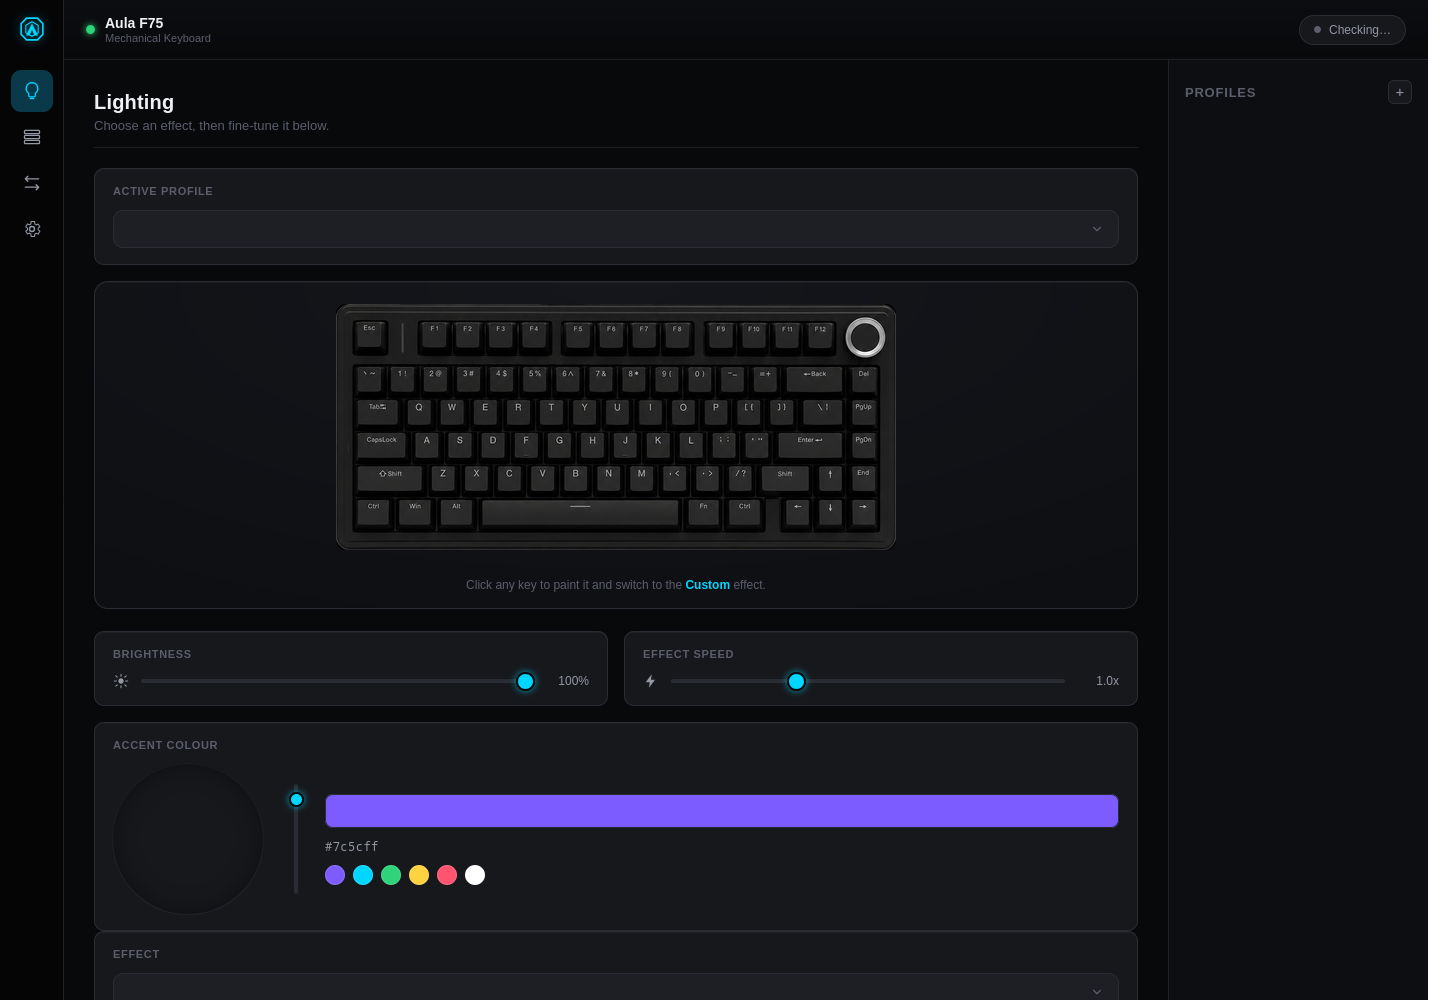
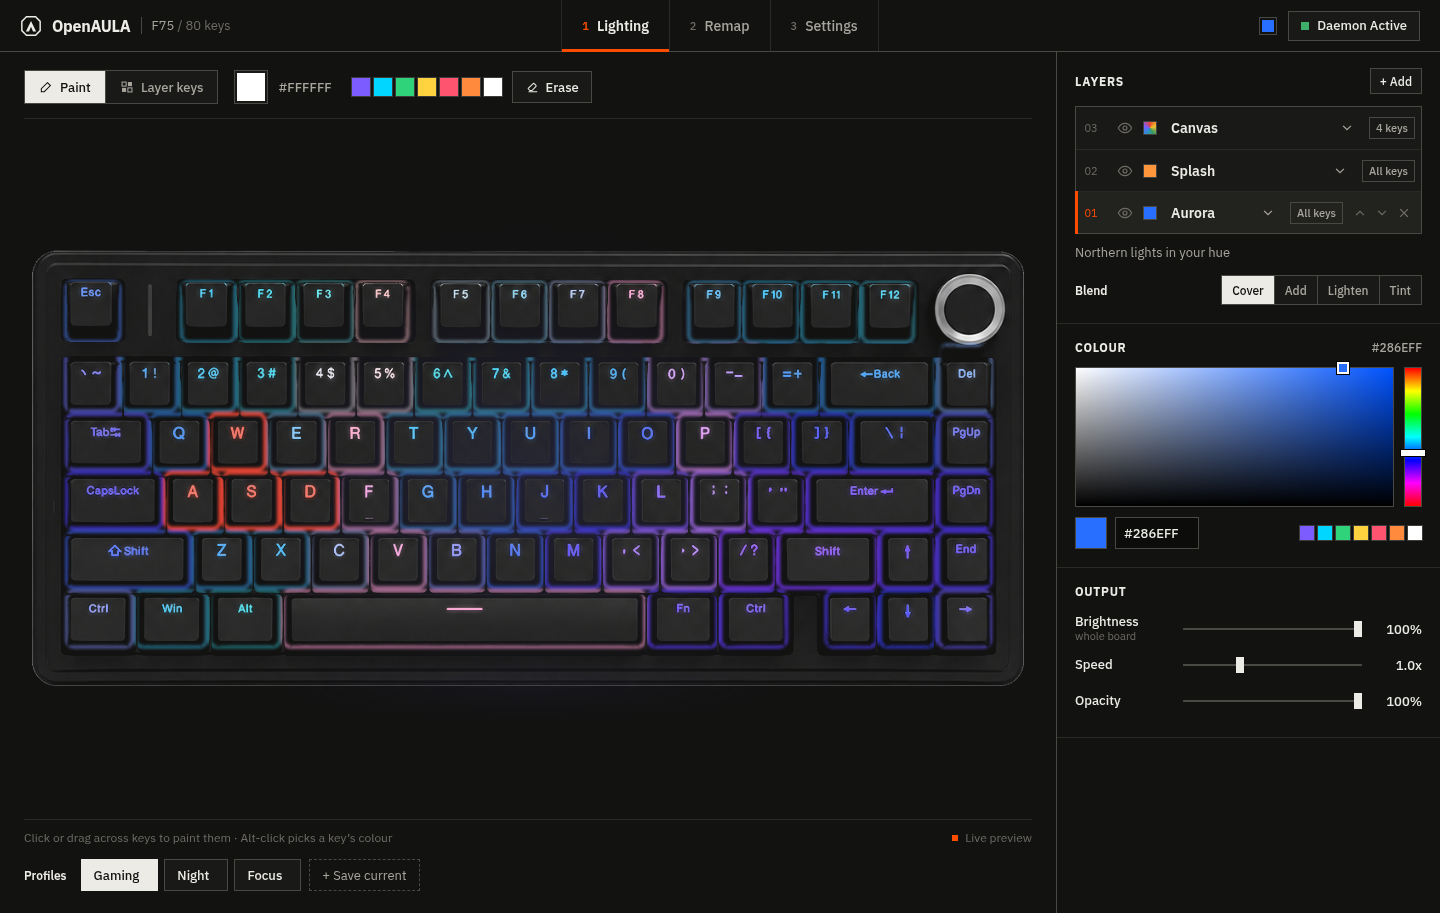
Update README screenshots and document lighting layers
Replace the screenshots with the redesigned UI, add one of the grouped
effect picker, and describe the layer stack, paint/zone tools and the new
reactive and system effects.

diff --git a/README.md b/README.md
@@ -24,6 +24,7 @@
 - [Quick start](#quick-start)
 - [What the installer does](#what-the-installer-does)
 - [Running without installing](#running-without-installing)
+- [Lighting layers & effects](#lighting-layers--effects)
 - [Macros & key remaps](#macros--key-remaps)
 - [Known limitations](#known-limitations)
 - [Uninstalling](#uninstalling)
@@ -51,13 +52,17 @@ Everything here is **Linux-only** (`hidraw` / `evdev` / `uinput`).
 
 ## Screenshots
 
-**Lighting** — pick an effect, paint individual keys, and manage profiles from the right-hand rail.
+**Lighting** — the live preview of the board (lit legends and the glow under the caps, as on the real keyboard), the paint tool above it, profiles below, and the layer inspector on the right.
 
-<p align="center"><img src="docs/screenshots/lighting.png" alt="OpenAULA lighting page — effect picker, per-key painter, brightness/speed sliders and colour wheel" width="800"></p>
+<p align="center"><img src="docs/screenshots/lighting.png" alt="OpenAULA lighting page — live keyboard preview, paint toolbar, profiles, and the layer inspector with colour picker and output sliders" width="800"></p>
 
-**Macros & Remap** — bind any physical key to another key, disable it, or attach a multi-step macro, all applied system-wide by `openaula-remapd`.
+**Effects** — every layer picks from one grouped list: still, ambient, motion, reactive (driven by your typing) and system (driven by CPU, memory, temperature, network or the clock).
 
-<p align="center"><img src="docs/screenshots/macros-remap.png" alt="OpenAULA Macros & Remap page — remap engine toggle and binding editor" width="800"></p>
+<p align="center"><img src="docs/screenshots/effects.png" alt="OpenAULA effect picker open on a layer, showing the Motion, Reactive and System groups" width="800"></p>
+
+**Remap** — bind any physical key to another key, disable it, or attach a multi-step macro, all applied system-wide by `openaula-remapd`.
+
+<p align="center"><img src="docs/screenshots/macros-remap.png" alt="OpenAULA Remap page — remap engine toggle, binding editor and current bindings" width="800"></p>
 
 **Settings** — daemon status and calibration in one place.
 
@@ -142,9 +147,49 @@ Both processes read/write plain files under `~/.config/openaula/` (`state.conf`,
 `profiles.conf`, `remap.conf`) — nothing is stored in a database or requires network
 access beyond your own machine.
 
+## Lighting layers & effects
+
+The backlight is a **stack of layers**, composited bottom to top — so different keys can
+run different effects, or several effects can share the same keys. Each layer has its
+own effect, colour, speed, opacity, set of keys, and blend mode:
+
+- **Cover** — replaces what's below it.
+- **Add** — light adds up.
+- **Lighten** — the brighter colour wins.
+- **Tint** — multiplies what's below (e.g. a white Breath over a Canvas makes the painted
+  keys breathe).
+
+Tools above the keyboard:
+
+- **Paint** — click or drag across keys to colour them with the brush (any colour, or
+  Alt-click a key to pick up its colour). Paint lands on the topmost **Canvas** layer,
+  which is created automatically the first time you paint; **Erase** removes keys from it
+  again so the layers below show through.
+- **Layer keys** — choose which keys the selected layer covers, by clicking/dragging or
+  with presets (Letters, Numbers, F-row, WASD, Arrows, Modifiers, Nav, Invert…).
+
+Effects come in five groups:
+
+| Group | Effects |
+|---|---|
+| Still | Canvas, Horizon, Blackout |
+| Ambient | Breath, Aurora, Starfield, Pulse, Chroma, Prism, Vortex, Ember |
+| Motion | Tide, Pendulum, Echo, Rain, Cascade, Meteor, Serpent, Wipe, Checker, Flash, Bloom, Confetti |
+| Reactive | Afterglow, Splash, Lock Light — driven by real keystrokes |
+| System | Processor, Memory, Thermal, Traffic, Clock — driven by the machine |
+
+Reactive effects read the F75's own input device **read-only** (it is never grabbed, so
+typing is unaffected); system effects read `/proc` and `/sys` (CPU load, memory, CPU
+temperature, network throughput) and the local clock. Both run inside
+`openaula-daemon`, so they keep working with the browser closed. The browser preview
+shows the same metrics, and previews the reactive effects from keys typed while the page
+has focus.
+
+Settings saved before layers existed are converted automatically on first load.
+
 ## Macros & key remaps
 
-The **Macros & Remap** page (keyboard-swap icon in the left rail) is the web UI for key
+The **Remap** tab is the web UI for key
 remapping, backed by the `openaula-remapd` engine and the `core/RemapConfig` file
 format.
 
@@ -186,6 +231,9 @@ all — until it's both enabled **and** has at least one binding configured, so 
 it is not itself risky.
 
 ## Known limitations
+
+- **Reactive effects go dark while remaps are enabled.** `openaula-remapd` grabs the
+  keyboard exclusively, so `openaula-daemon` no longer sees its keystrokes.
 
 - **No calibration UI walkthrough beyond the Settings page.** If your board reports as
   uncalibrated (see Settings), per-key custom colours may land on the wrong physical
